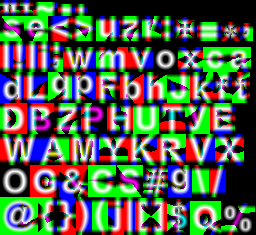
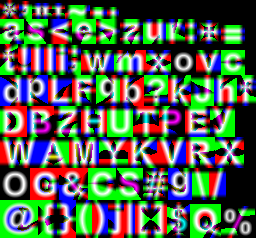
Tested the implementation with both SDF and MSDF generation.

diff --git a/main.cpp b/main.cpp
@@ -12,7 +12,11 @@
 
 using namespace msdfgen;
 
-GlyphBitmap* createGlyphBitmap(FontHandle *font, char character)
+typedef GlyphBitmap<FloatRGB> GBITMAP;
+typedef Bitmap<FloatRGB> BITMAP;
+#define GENERATE(target, shape, range, offsx, offsy) generateMSDF(target, shape, range, 1.0, Vector2(offsx, offsy));
+
+GBITMAP *createGlyphBitmap(FontHandle *font, char character)
 {
 	Shape shape;
 	GlyphMetrics *metrics = new GlyphMetrics();
@@ -26,31 +30,31 @@ GlyphBitmap* createGlyphBitmap(FontHandle *font, char character)
 	edgeColoringSimple(shape, 3.0); // max. angle
 	double l = LARGE_VALUE, b = LARGE_VALUE, r = -LARGE_VALUE, t = -LARGE_VALUE;
 	shape.bounds(l, b, r, t);
-	GlyphBitmap *result = l == LARGE_VALUE || b == LARGE_VALUE ?
-		new GlyphBitmap(0, 0) :
-		new GlyphBitmap((int)round(r - l + (2 * range)), (int)round(t - b + (2 * range)));
+	GBITMAP *result = l == LARGE_VALUE || b == LARGE_VALUE ?
+		new GBITMAP(0, 0) :
+		new GBITMAP((int)round(r - l + (2 * range)), (int)round(t - b + (2 * range)));
 	if (result->width() != 0 && result->height() != 0)
-		generateMSDF(*result, shape, range, 1.0, Vector2(-l + range, -b + range));
+		GENERATE(*result, shape, range, -l + range, -b + range);
 	result->character = character;
 	result->metrics = metrics;
 	return result;
 }
 
-bool bySize(GlyphBitmap* a, GlyphBitmap* b) {
+bool bySize(GBITMAP* a, GBITMAP* b) {
 	if (a->height() == b->height())
 		return a->width() > b->width();
 	return a->height() > b->height();
 }
 
-bool byCharacter(GlyphBitmap* a, GlyphBitmap* b) {
+bool byCharacter(GBITMAP* a, GBITMAP* b) {
 	return a->character < b->character;
 }
 
-Bitmap<FloatRGB> *packBitmaps(std::vector<GlyphBitmap*> &bitmaps, int targetWidth, FILE *csvfile) {
+BITMAP *packBitmaps(std::vector<GBITMAP*> &bitmaps, int targetWidth, FILE *txtfile) {
 	std::sort(bitmaps.begin(), bitmaps.end(), bySize);
 	int height = 0, ly = 0, lw = targetWidth;
 	for (size_t i = 0; i < bitmaps.size(); i++) {
-		GlyphBitmap* curr = bitmaps[i];
+		GBITMAP* curr = bitmaps[i];
 		if (lw + curr->width() > targetWidth)
 		{
 			ly = height;
@@ -62,20 +66,20 @@ Bitmap<FloatRGB> *packBitmaps(std::vector<GlyphBitmap*> &bitmaps, int targetWidt
 		lw += curr->width();
 	}
 	std::sort(bitmaps.begin(), bitmaps.end(), byCharacter);
-	Bitmap<FloatRGB> *result = new Bitmap<FloatRGB>(targetWidth, height);
+	BITMAP *result = new BITMAP(targetWidth, height);
 	for (size_t i = 0; i < bitmaps.size(); i++) {
-		GlyphBitmap *bm = bitmaps[i];
+		GBITMAP *bm = bitmaps[i];
 		if (!bm->bitBlit(*result))
 		{
 			delete result;
 			return NULL;
 		}
-		char csvline[200];
-		sprintf(csvline, "%c|%i|%i|%i|%i|%f|%f|%f|%f|%f\n", 
+		char txtline[200];
+		sprintf(txtline, "%c\t%i\t%i\t%i\t%i\t%f\t%f\t%f\t%f\t%f\n", 
 			bm->character, bm->x, bm->y, bm->width(), bm->height(),
 			bm->metrics->width, bm->metrics->height, 
 			bm->metrics->offsetX, bm->metrics->offsetY, bm->metrics->advance);
-		fputs(csvline, csvfile);
+		fputs(txtline, txtfile);
 	}
 	return result;
 }
@@ -89,7 +93,7 @@ int main(int argc, const char* const *argv) {
 	_splitpath(fontpath.c_str(), NULL, NULL, fontname, NULL);
 	std::string outputpath(fontname);
 	std::string pngfilepath = outputpath + ".png";
-	std::string csvfilepath = outputpath + ".csv";
+	std::string txtfilepath = outputpath + ".txt";
 
 	FreetypeHandle *ft = initializeFreetype();
 	if (ft) {
@@ -97,19 +101,19 @@ int main(int argc, const char* const *argv) {
 		if (font) {
 			FILE *cmapFile = fopen(charmap.c_str(), "r");
 			if (cmapFile) {
-				std::vector<GlyphBitmap*> bitmaps;
+				std::vector<GBITMAP*> bitmaps;
 				char character;
 				while ((character = fgetc(cmapFile)) >= 0) {
-					GlyphBitmap* bitmap = createGlyphBitmap(font, character);
+					GBITMAP* bitmap = createGlyphBitmap(font, character);
 					if (bitmap)
 						bitmaps.push_back(bitmap);
 					else
 						break;
 				}
-				FILE *csvfile = fopen(csvfilepath.c_str(), "w");
-				fputs("char|tx|ty|tw|th|gw|gh|goffsx|goffsy|gadv\n", csvfile);
-				Bitmap<FloatRGB> *fontAtlas = packBitmaps(bitmaps, 256, csvfile);
-				fclose(csvfile);
+				FILE *txtfile = fopen(txtfilepath.c_str(), "w");
+				fputs("char\ttexx\ttexy\ttexw\ttexh\tglyphwidth\tglyphheight\tglyphoffsx\tglyphoffsy\tglyphadv\n", txtfile);
+				BITMAP *fontAtlas = packBitmaps(bitmaps, 256, txtfile);
+				fclose(txtfile);
 				savePng(*fontAtlas, pngfilepath.c_str());
 				delete fontAtlas;
 				for (size_t i = 0; i < bitmaps.size(); i++)

diff --git a/GlyphBitmap.cpp b/GlyphBitmap.cpp
@@ -2,26 +2,31 @@
 
 namespace msdfgen {
 
-GlyphBitmap::GlyphBitmap() : Bitmap<FloatRGB>()
+template <typename T>
+GlyphBitmap<T>::GlyphBitmap() : Bitmap<T>()
 {
 }
 
-GlyphBitmap::GlyphBitmap(int width, int height) : Bitmap<FloatRGB>(width, height)
+template <typename T>
+GlyphBitmap<T>::GlyphBitmap(int width, int height) : Bitmap<T>(width, height)
 {
 }
 
-GlyphBitmap::~GlyphBitmap()
+template <typename T>
+GlyphBitmap<T>::~GlyphBitmap()
 {
 	if (metrics)
 		delete metrics;
 }
 
-bool GlyphBitmap::canFit(Bitmap<FloatRGB>& target)
+template <typename T>
+bool GlyphBitmap<T>::canFit(Bitmap<T>& target)
 {
 	return x + width() <= target.width() && y + height() <= target.height();
 }
 
-bool GlyphBitmap::bitBlit(Bitmap<FloatRGB> &target) {
+template <typename T>
+bool GlyphBitmap<T>::bitBlit(Bitmap<T> &target) {
 	if (!canFit(target))
 		return false;
 	for (int line = 0, src = 0; line < height(); line++) {
@@ -32,5 +37,7 @@ bool GlyphBitmap::bitBlit(Bitmap<FloatRGB> &target) {
 	return true;
 }
 
+template class GlyphBitmap<float>;
+template class GlyphBitmap<FloatRGB>;
 
 }

diff --git a/ext/import-font.cpp b/ext/import-font.cpp
@@ -132,11 +132,11 @@ bool loadGlyph(Shape &output, FontHandle *font, int unicode, GlyphMetrics *metri
     output.contours.clear();
     output.inverseYAxis = false;
 	if (metrics) {
-		metrics->width = font->face->glyph->metrics.width / 64.;
-		metrics->height = font->face->glyph->metrics.height / 64.;
-		metrics->offsetX = font->face->glyph->metrics.horiBearingX / 64.;
-		metrics->offsetY = font->face->glyph->metrics.horiBearingY / 64.;
-		metrics->advance = font->face->glyph->metrics.horiAdvance / 64.;
+		metrics->width = (float)font->face->glyph->metrics.width / 64.0f;
+		metrics->height = (float)font->face->glyph->metrics.height / 64.0f;
+		metrics->offsetX = (float)font->face->glyph->metrics.horiBearingX / 64.0f;
+		metrics->offsetY = (float)font->face->glyph->metrics.horiBearingY / 64.0f;
+		metrics->advance = (float)font->face->glyph->metrics.horiAdvance / 64.0f;
 	}
 
     FtContext context = { };

diff --git a/GlyphBitmap.h b/GlyphBitmap.h
@@ -5,15 +5,16 @@
 
 namespace msdfgen {
 
-class GlyphBitmap : public Bitmap<FloatRGB>
+template<typename T>
+class GlyphBitmap : public Bitmap<T>
 {
 public:
 	GlyphBitmap();
 	GlyphBitmap(int width, int height);
 	~GlyphBitmap();
 
-	bool canFit(Bitmap<FloatRGB> &other);
-	bool bitBlit(Bitmap<FloatRGB> &other);
+	bool canFit(Bitmap<T> &target);
+	bool bitBlit(Bitmap<T> &target);
 	char character;
 	int x;
 	int y;
